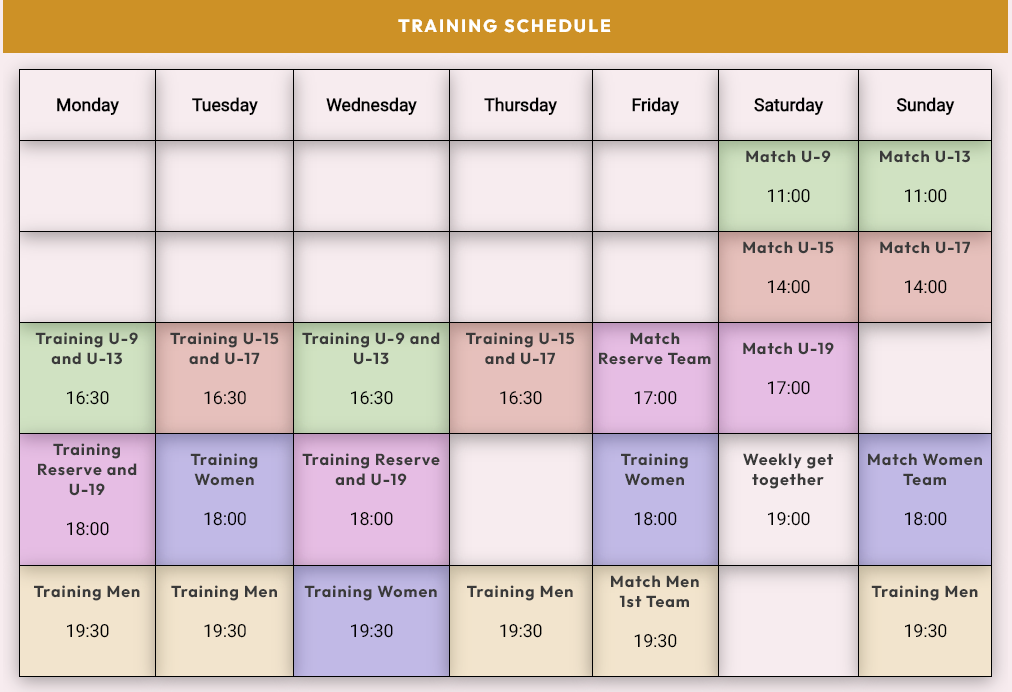
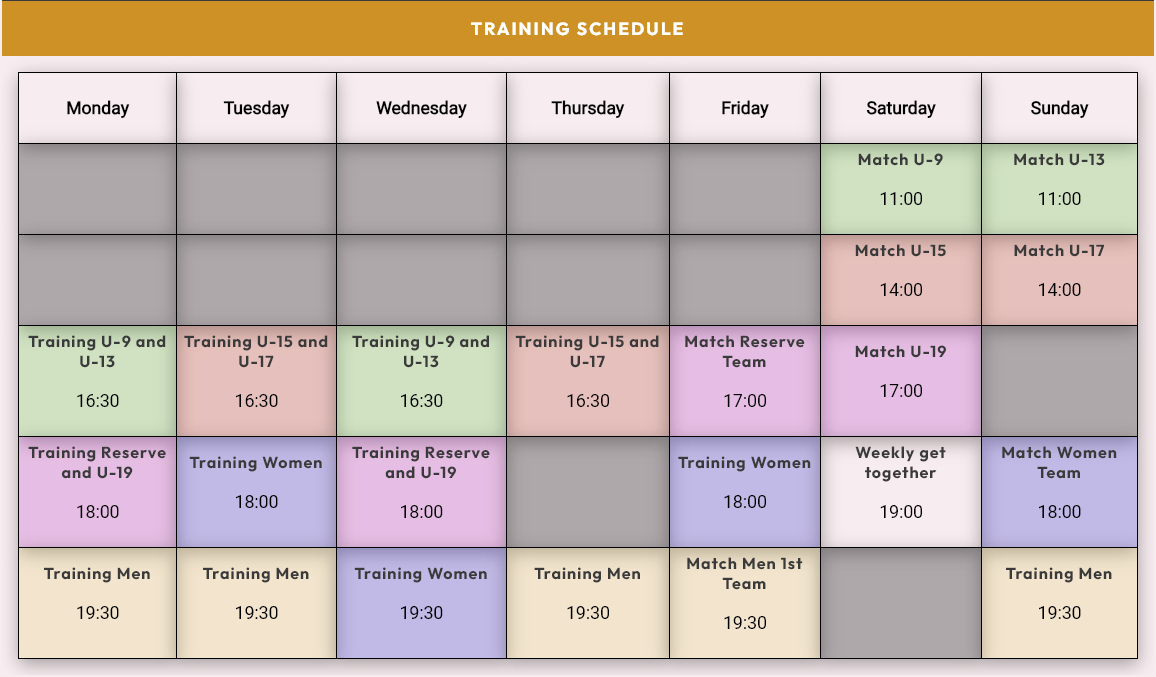
docs: add testing results for sign-up page

diff --git a/index.html b/index.html
@@ -208,19 +208,19 @@
                         </th>
                     </tr>
                     <tr>
-                        <td>
+                        <td class="empty">
                             <p></p>
                         </td>
-                        <td>
+                        <td class="empty">
                             <p></p>
                         </td>
-                        <td>
+                        <td class="empty">
                             <p></p>
                         </td>
-                        <td>
+                        <td class="empty">
                             <p></p>
                         </td>
-                        <td>
+                        <td class="empty">
                             <p></p>
                         </td>
                         <td class="u9-and-u13">
@@ -233,19 +233,19 @@
                         </td>
                     </tr>
                     <tr>
-                        <td>
+                        <td class="empty">
                             <p></p>
                         </td>
-                        <td>
+                        <td class="empty">
                             <p></p>
                         </td>
-                        <td>
+                        <td class="empty">
                             <p></p>
                         </td>
-                        <td>
+                        <td class="empty">
                             <p></p>
                         </td>
-                        <td>
+                        <td class="empty">
                             <p></p>
                         </td>
                         <td class="u15-and-u17">
@@ -282,7 +282,7 @@
                             <h4>Match U-19</h4>
                             <p>17:00</p>
                         </td>
-                        <td>
+                        <td class="empty">
                             <p></p>
                         </td>
                     </tr>
@@ -299,7 +299,7 @@
                             <h4>Training Reserve and U-19</h4>
                             <p>18:00</p>
                         </td>
-                        <td>
+                        <td class="empty">
                             <p></p>
                         </td>
                         <td class="woman">
@@ -336,7 +336,7 @@
                             <h4>Match Men 1st Team</h4>
                             <p>19:30</p>
                         </td>
-                        <td>
+                        <td class="empty">
                             <p></p>
                         </td>
                         <td class="men">

diff --git a/assets/css/styles.css b/assets/css/styles.css
@@ -398,6 +398,10 @@ td p {
     background-color: rgba(236, 209, 111, 0.288);
 }
 
+.empty {
+    background-color: rgba(53, 51, 51, 0.37);
+}
+
 /* Contact block */
 .adress-block {
     padding-bottom: 20px;

diff --git a/README.md b/README.md
@@ -52,6 +52,7 @@ There is also a sign up form at the bottom of the page, where people can registe
     - [Languages](#languages)
     - [Programs Used - Frameworks - Libraries](#programs-used---frameworks---libraries)
 - [Deployment](#deployment)
+    - [Running the project locally](#running-the-project-locally)
 - [Credits](#credits)
     - [Content](#content)
     - [Resources Used](#resources-used)
@@ -199,13 +200,32 @@ No errors were shown for the CSS stylsheet from the W3C CSS Validator
 #### Lighthouse Testing
 Desktop
 
-![Lighthouse Testing Desktop](docs/readme-images/lighthouse-testing-desktop.png)
+- Main Page 
+
+![Lighthouse Testing Main Page Desktop](docs/readme-images/lighthouse-testing-desktop.png)
+
+- Sign Up Page
+
+![Lighthouse Testing Sign Up Page Desktop](docs/readme-images/lighthouse-testing-sign-up-page-desktop.png)
 
 Mobile
 
-![Lighthouse Testing Mobile](docs/readme-images/lighthouse-testing-mobile.png)
+- Main Page
+
+![Lighthouse Testing Main Page Mobile](docs/readme-images/lighthouse-testing-mobile.png)
+
+- Sign Up Page
+
+![Lighthouse Testing Sign Up Page Mobile](docs/readme-images/lighthouse-testing-sign-up-page-mobile.png
+)
 #### Wave Testing
-![Wave Testing](docs/readme-images/wave-testing.png)
+Wave testing on main page
+
+![Wave Testing Main Page](docs/readme-images/wave-testing.png)
+
+Wave testing on sign up page
+
+![Wave Testing Sign up page](docs/readme-images/wave-testing-sign-up-page.png)
 ### Links Testing
 - All internal links are working correctly and redirecting to the correct sections.
 - All external links are working correctly and redirecting the user to the external website in a separated tab.
